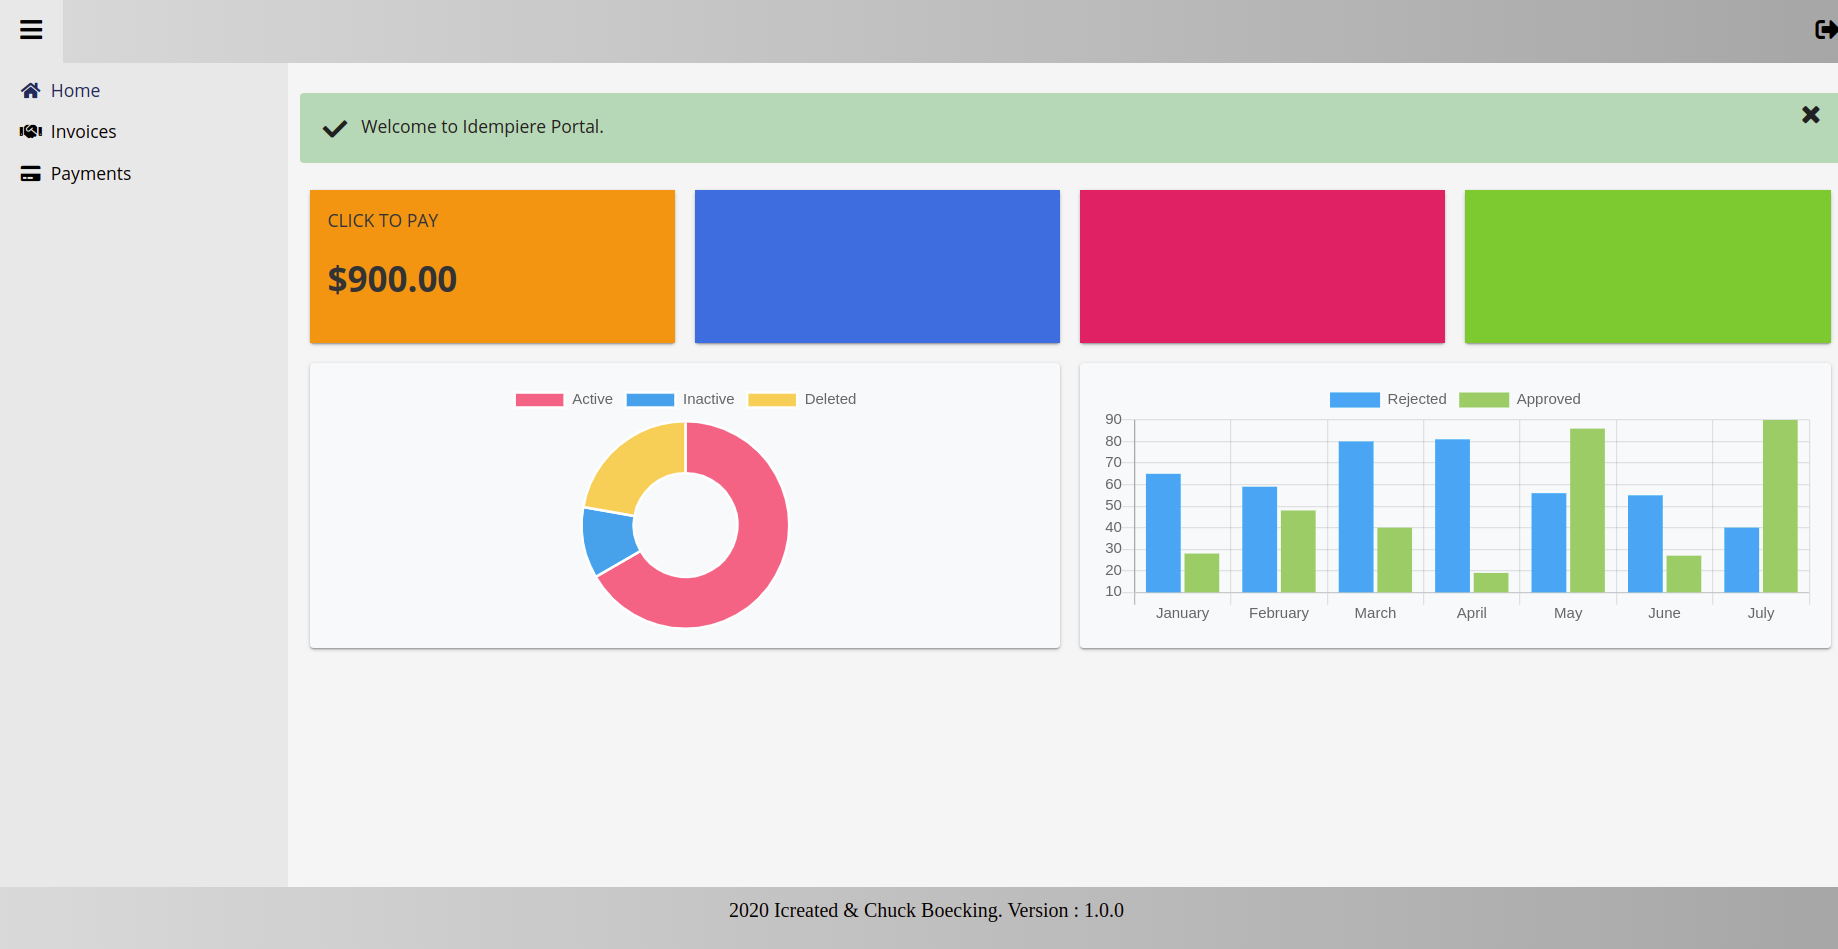
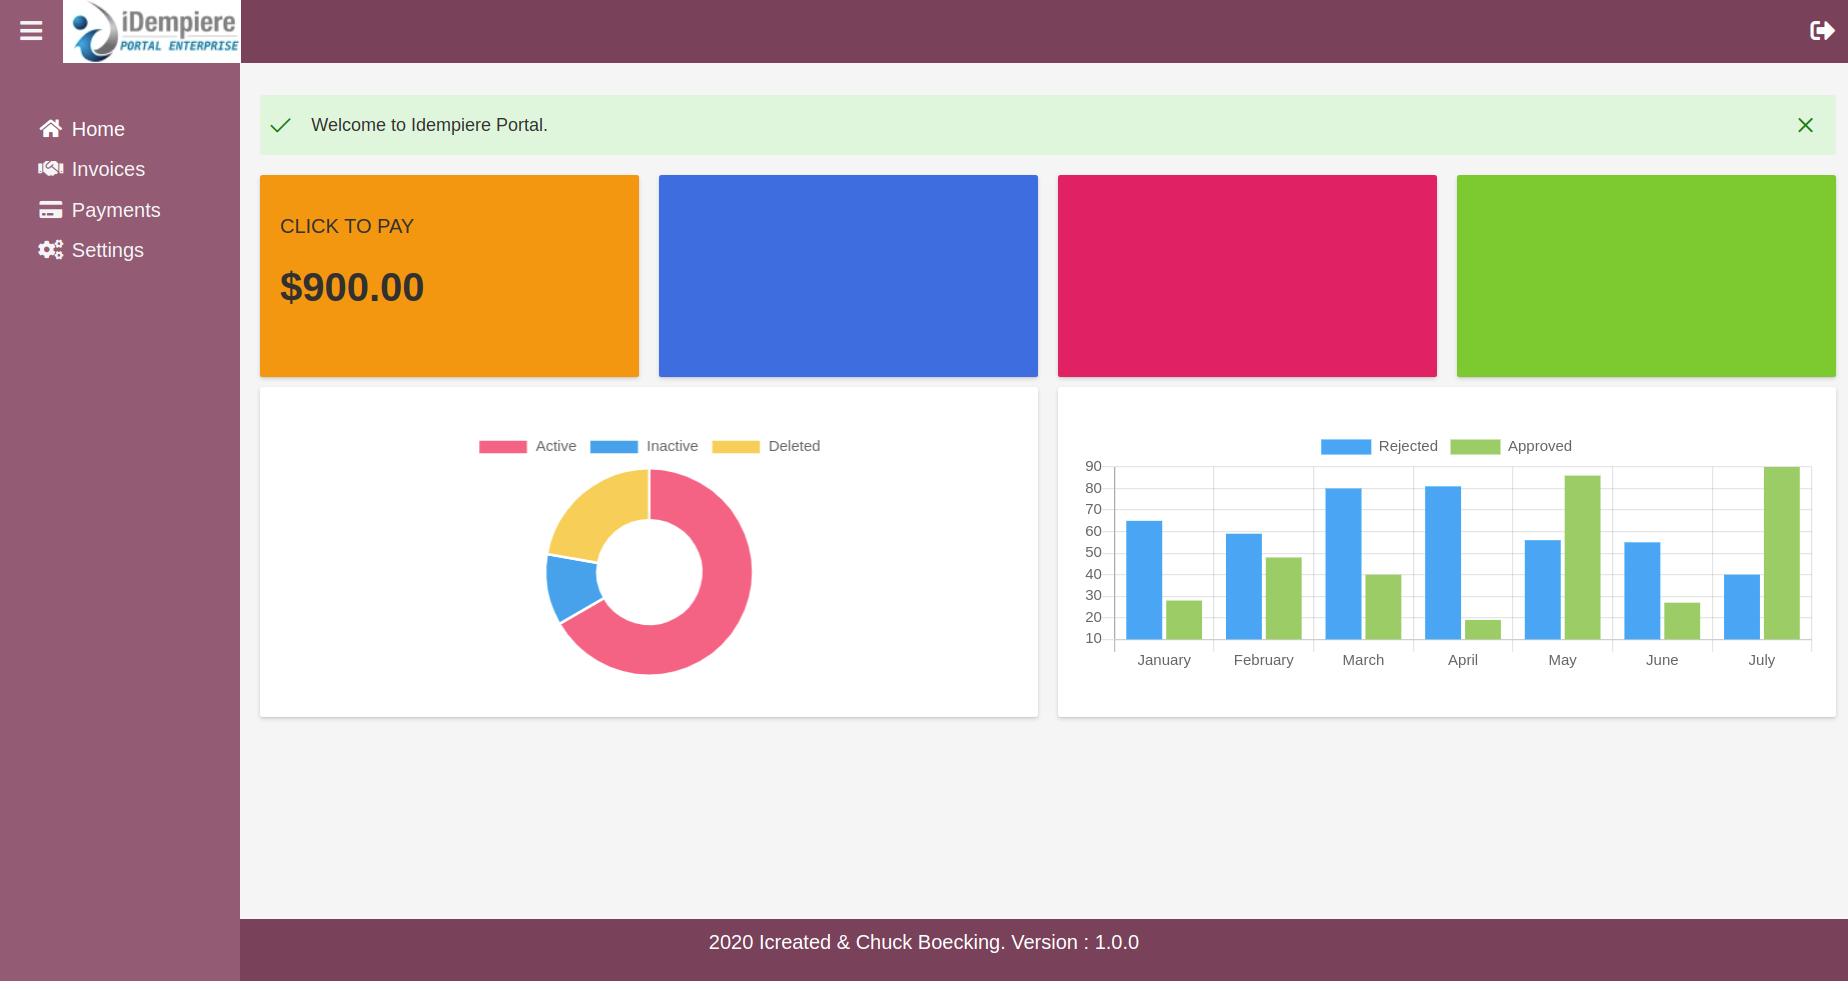
new images

diff --git a/README.md b/README.md
@@ -4,7 +4,7 @@
 
 
 # Idempiere Portal Frontend
-> 
+>
 
 Idempiere Portal Frontend is a frontend application created as responsive angular / PrimeNG seed for your projects.
 This project is inspired by PrimeNG seed that can be found [here](https://github.com/NilavPatel/Ng-Prime)
@@ -28,7 +28,9 @@ This plugin works in pair with server side Idempiere Portal API that can be foun
 
 ![Portal Credit Card](/src/assets/images/screen_creditcard.png?raw=true "Portal Credit Card")
 
+### Settings
 
+![Portal Credit Card](/src/assets/images/screen_settings.png?raw=true "Settings")
 
 
 ## Installing / Getting started
@@ -56,7 +58,7 @@ You are redirected to login page. To get started fill in the form with: gardenus
 ## Contributing
 
 If you'd like to contribute, please fork the repository and use a feature
-branch. 
+branch.
 
 Pull requests are warmly welcome
 
